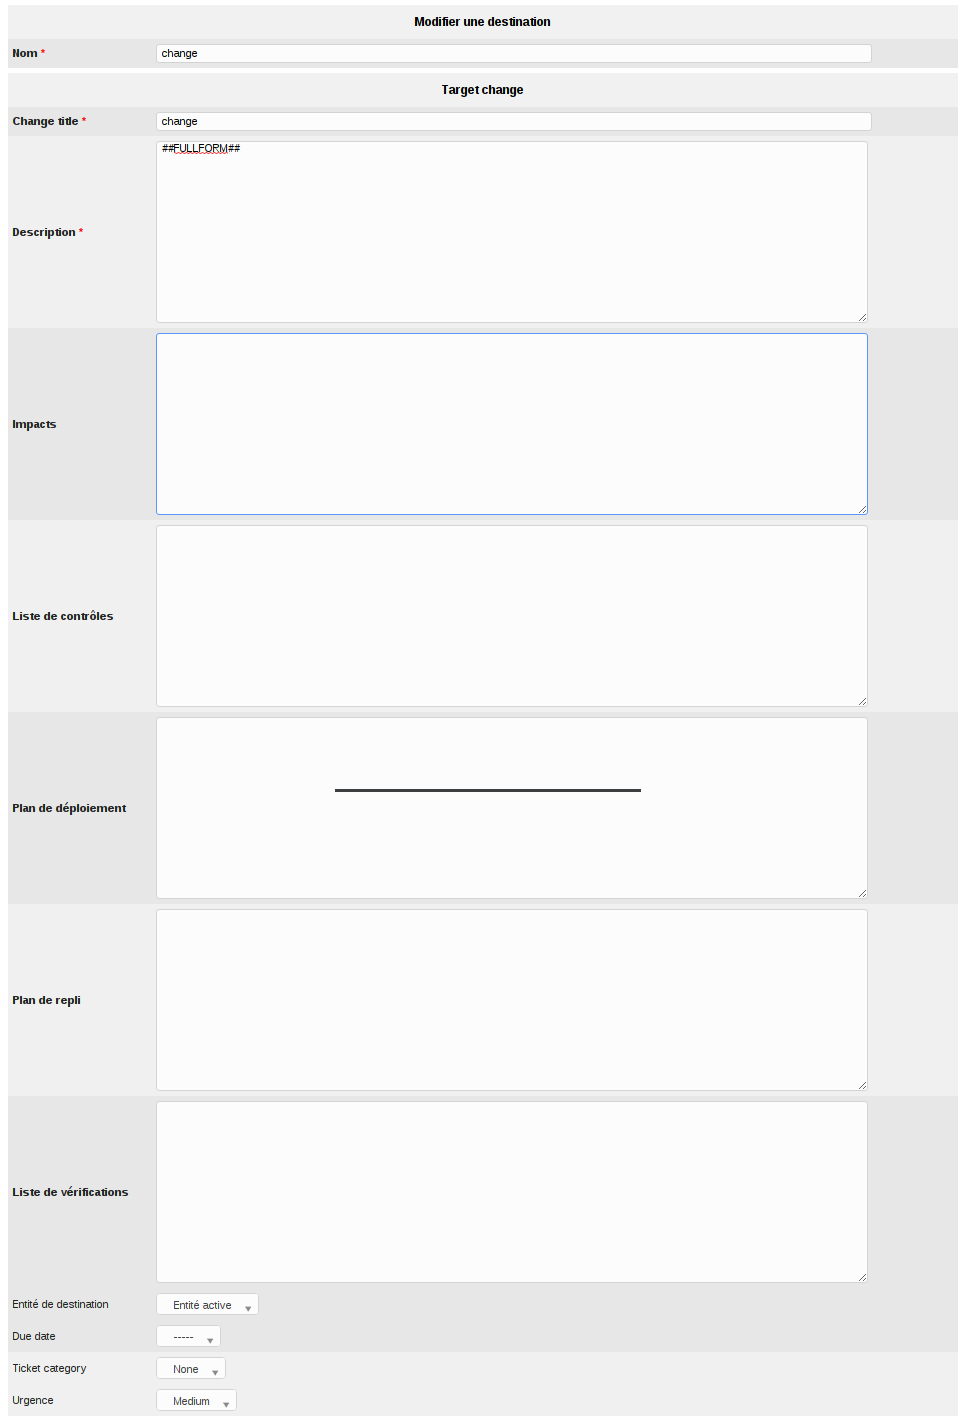
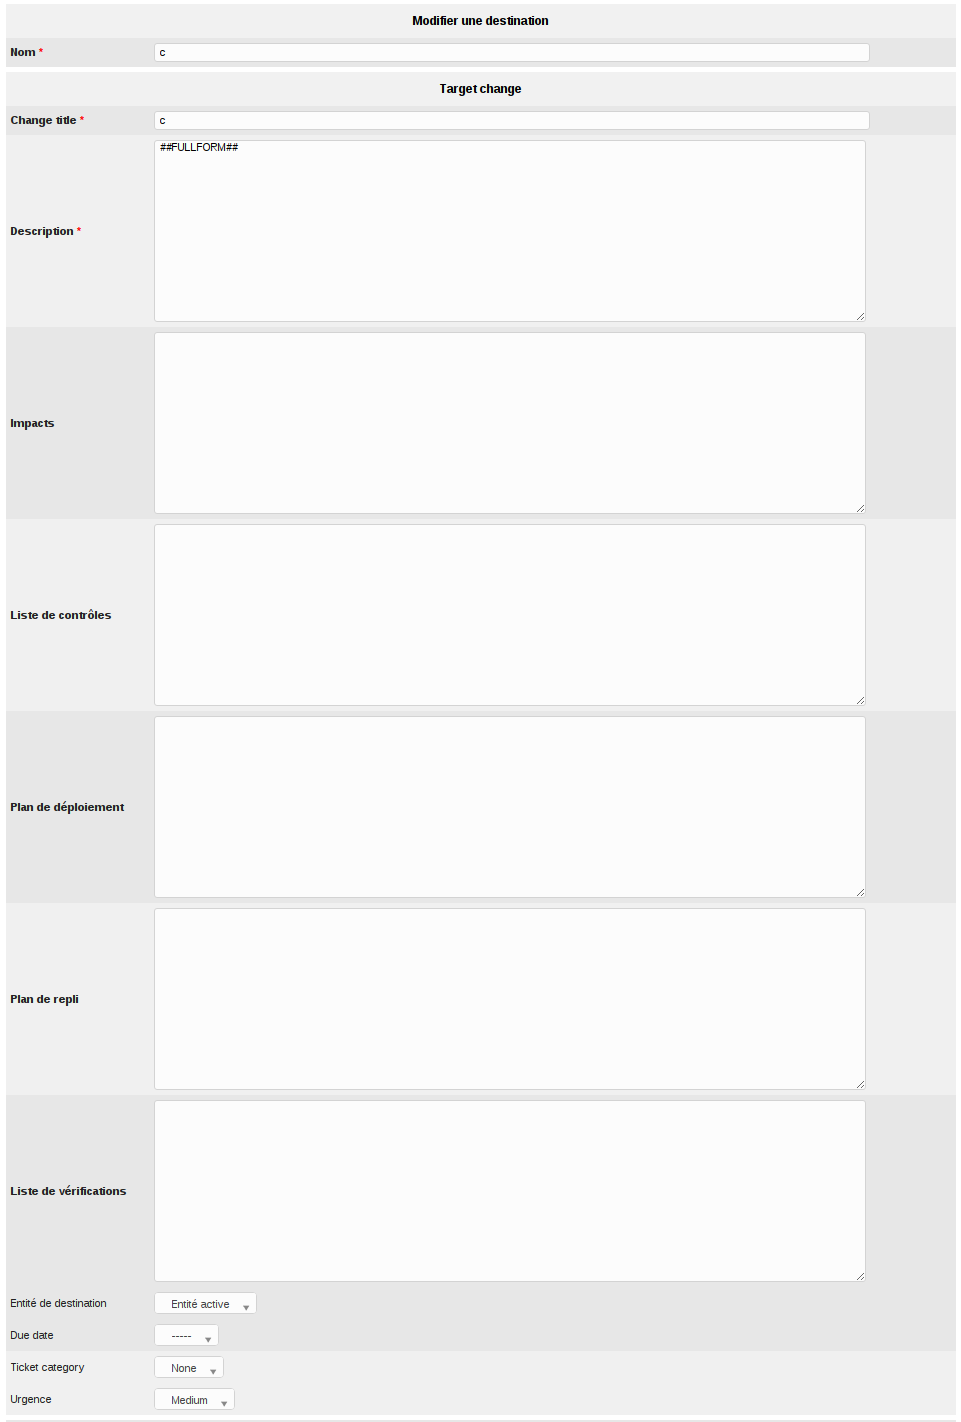
fix destiantion change: image and name of field

diff --git a/source/formcreator/configuration.rst b/source/formcreator/configuration.rst
@@ -292,7 +292,7 @@ Change destination
  .. image:: images/destination_change.png
 
 * **Name**: Name of the destination
-* **Ticket title**: By default, this is the name of the destination. You may change it and use tags the form provides.
+* **change title**: By default, this is the name of the destination. You may change it and use tags the form provides.
 * **Description**: By default the description is **##FULLFORM##**. It means the description will be populated with all questions and answers of the form. You may change the description. It is always rendered as simple text when the destination is generated. Available tags are displayed at the bottom of the page, in the section **List of available tags**.
 * **Impacts**: Works as **Description**.
 * **Control list**: Works as **Description**.
